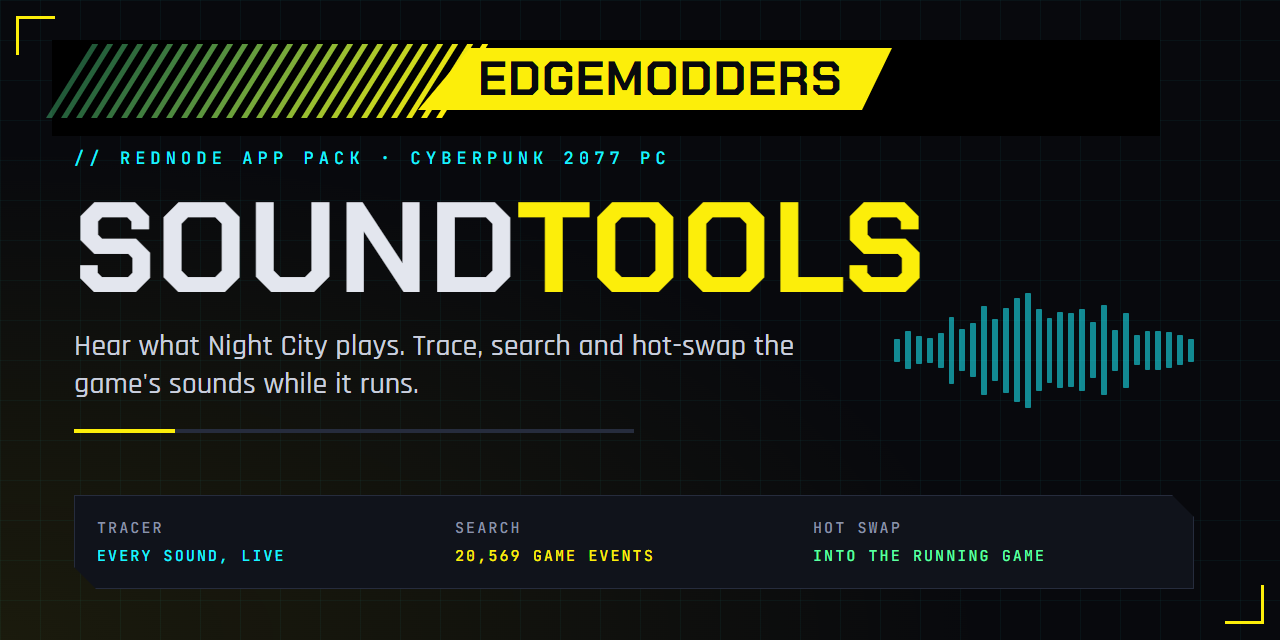
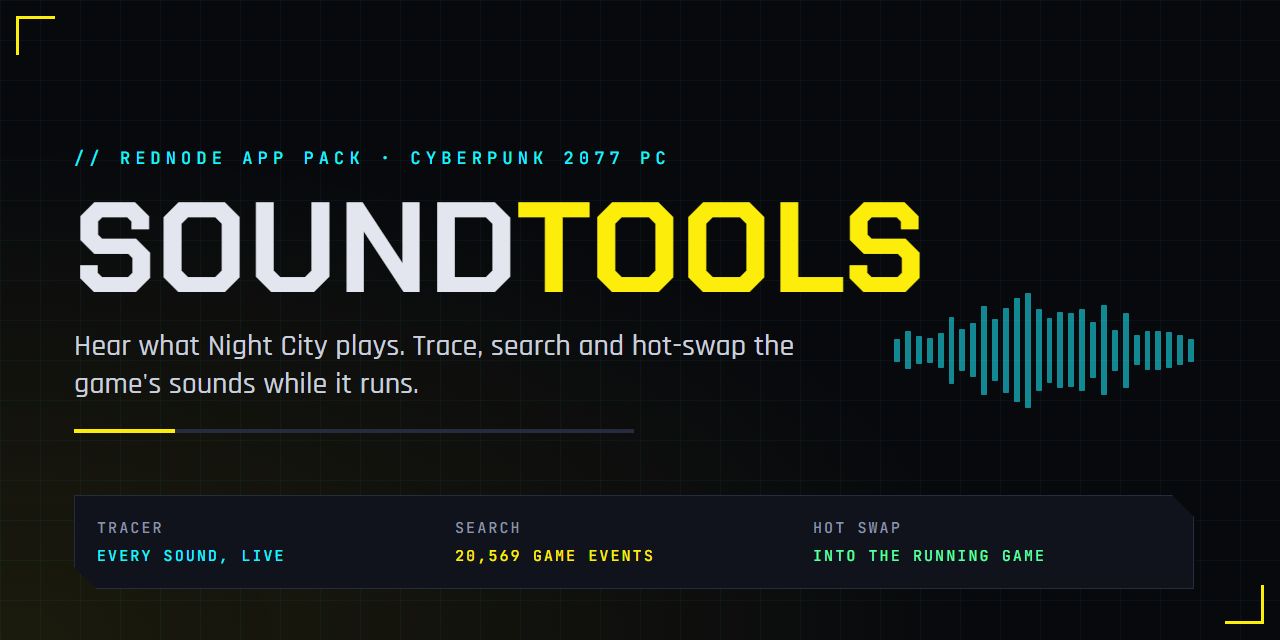
Sound Tools Nexus image: leave the EDGEmodders header to the owner

Changed region(s): [[0.0312, 0.0625, 0.7188, 0.1875]]

diff --git a/packs/sound-tools/nexus/brand/source.html b/packs/sound-tools/nexus/brand/source.html
@@ -61,7 +61,8 @@
   #social .wave { right: 80px; top: 230px; width: 300px; height: 120px; opacity: .55; gap: 5px; }
   #social .wave i { width: 7px; }
 
-  /* nexus: 1280 x 640, the social layout 55 px lower under the EDGEmodders header */
+  /* nexus: 1280 x 640, the social layout 55 px lower, leaving the top for the EDGEmodders
+     header the owner adds by hand (after REDnode's own nexus.png) */
   #nexus { width: 1280px; height: 640px; }
   #nexus .corner { width: 36px; height: 36px; left: 16px; top: 16px; }
   #nexus .corner.br { left: auto; top: auto; right: 16px; bottom: 16px; }
@@ -77,12 +78,6 @@
   #nexus .row span + span { margin-top: 8px; }
   #nexus .wave { right: 86px; top: 290px; width: 300px; height: 120px; opacity: .55; gap: 5px; }
   #nexus .wave i { width: 7px; }
-  #nexus .band { position: absolute; left: 52px; top: 40px; width: 1108px; height: 96px; background: #000; }
-  #nexus .stripes { position: absolute; left: 0; top: 44px; width: 470px; height: 74px; }
-  #nexus .stripes i { position: absolute; top: 0; width: 6px; height: 74px; transform: skewX(-32deg); transform-origin: bottom left; }
-  #nexus .tagbar { position: absolute; left: 418px; top: 48px; width: 474px; height: 62px; background: var(--yellow);
-    clip-path: polygon(52px 0, 100% 0, calc(100% - 30px) 100%, 0 100%);
-    font: 700 48px/62px var(--display); letter-spacing: .02em; color: #08090d; text-align: center; padding-left: 10px; box-sizing: border-box; }
 
   /* icon: 256 x 256 */
   #icon { width: 256px; height: 256px; clip-path: polygon(0 0, 214px 0, 256px 42px, 256px 256px, 42px 256px, 0 214px); }
@@ -99,17 +94,6 @@
 <script>
   // Which image: ?kind=banner, social, nexus or icon (or the same as the URL's hash).
   const kind = new URLSearchParams(location.search).get('kind') || location.hash.slice(1) || 'banner';
-  // The EDGEmodders header of the Nexus image, after REDnode's own nexus.png: diagonal
-  // stripes from green to yellow, then a slanted yellow tag on a black band.
-  const header = () => {
-    const stripes = [];
-    for (let i = 0; i < 27; i++) {
-      const t = i / 26;
-      const color = `rgb(${Math.round(93 + (252 - 93) * t)}, ${Math.round(255 - (255 - 238) * t)}, ${Math.round(161 - (161 - 10) * t)})`;
-      stripes.push(`<i style="left:${46 + i * 15}px;background:${color};opacity:${(0.35 + 0.65 * t).toFixed(2)}"></i>`);
-    }
-    return `<div class="band"></div><div class="stripes">${stripes.join('')}</div><div class="tagbar">EDGEMODDERS</div>`;
-  };
   const wave = (n, h, seed = 7) => {
     let x = seed;
     const bars = [];
@@ -134,7 +118,7 @@
   const art = {
     banner: `${text('// REDnode app pack · Cyberpunk 2077 PC')}<div class="panel">${rows}</div>${wave(52, 90)}`,
     social: `${text('// REDnode app pack · Cyberpunk 2077 PC')}<div class="panel">${rows}</div>${wave(28, 120, 11)}`,
-    nexus: `${header()}${text('// REDnode app pack · Cyberpunk 2077 PC')}<div class="panel">${rows}</div>${wave(28, 120, 11)}`,
+    nexus: `${text('// REDnode app pack · Cyberpunk 2077 PC')}<div class="panel">${rows}</div>${wave(28, 120, 11)}`,
     icon: `<div class="title">S<b>T</b></div>${wave(13, 34, 3)}`,
   }[kind];
   document.body.innerHTML = `<div id="${kind}" class="art"><div class="corner tl"></div><div class="corner br"></div>${art}</div>`;

diff --git a/CLAUDE.md b/CLAUDE.md
@@ -14,7 +14,7 @@ REDnode is a Node.js API for scripting Cyberpunk 2077 (PC, single-player). Read 
 - **TweakDB API**, agreed with the user on 2026-10-13 ("We need to do it"): phases T1 to T3 in [docs/tweakdb.md](docs/tweakdb.md), right after W2's in-game test and before O7. Decided: reads in the plugin through the RED4ext SDK, writes through TweakXL (`requires`), undo per package when it stops. T1 (read) passed in game on 2026-10-14 (REDnode 0.19.0: `tweakdb.*` in reflect.cpp, `tweakdb` in the package, the MCP `tweakdb` tool, `apps/tweakdb-test`), and so did 0.18.1's fixes. T2 (writes through TweakXL: Variant in the plugin's conversion, `tweakdb.set/clone/create/update` calling TweakXL's TweakDBID overloads, the host's undo journal per package) passed in game on 2026-10-14 (REDnode 0.20.0, TweakXL 1.11.4). T3 (offline reads) waits for REDbridge's `tweakdb` methods and names (its issue #3). Next in the agreed order: O11 Spaces. Names for ids are requested from REDbridge (its issue #3).
 - **Pointer lock** (EDGEbuilder's #11), agreed with the user on 2026-10-14 before the Sound API: `pointer.lock`/`pointer.unlock` in the plugin (windows.cpp, input.cpp; Esc, F10, close and hide end it; the middle button now reaches pages), the web's Pointer Lock API put in by `preload.js`, raw movement dispatched by the page's code since Chromium drops `movementX` from injected moves. Passed in game on 2026-10-15 (REDnode 0.22.0); #11 closed.
 - **O12 Console**, proposed by the user on 2026-10-15: a CET-style console for free-form JavaScript with the whole `rednode` package in scope, as a built-in tool window and its own Node mod (plan in docs/overlay.md). Distinct from O9's debugger console, which fixes one package. Not scheduled; agree its order, the key and who gets it.
-- **Sound API**, agreed with the user on 2026-10-14: REDnode's own audio engine in the plugin (miniaudio), plan in [docs/sound.md](docs/sound.md), after the TweakDB API and O11 Spaces. **Clean room:** Audioware has no license, so never read or copy its source; use only its public docs and in-game behavior. Audioware as a `requires` dependency is the fallback only if our own engine proves prohibitive. Started on 2026-10-15 (the user chose it before O12): the S1 research spike is built in REDnode 0.23.0 (miniaudio 0.11.25 via FetchContent in `native/src/overlay/audio.cpp`, bridge method `audio.tone`; sample `apps/sound-test`), passed in game on 2026-10-16 with 0.23.1 (which keeps objects a call makes, like the settings system's groups, and adds `api.$out` for native out parameters). Found: volumes under `/audio/volume` (Ints 0 to 100), `IsPausedState` useless (dilation 0 in menus instead), the scanner's slow motion not in the global dilation (open), the camera transform works, miniaudio plays beside Wwise. Results and what they mean for S1 in docs/sound.md. S1 Play, agreed with the user on 2026-10-16, is built in REDnode 0.24.0 (audio.cpp's engine with a loader thread, groups per category, menu pause, mute in background and `sound-end` events; the host's `soundCall`, manifest `sounds` and volume reading in main.js; `audio` in the package; sample `apps/sound-test` 0.2.0 with files from `tools/sounds/make-sample-sounds.py`; `native/tests/audio_test.cpp`). S1 passed in game on 2026-10-16 except pan: on the user's 8-channel HDMI output miniaudio's panner did nothing (it pans only a stereo mix). REDnode 0.24.1 opens the device itself, mixes in stereo and maps it to the front pair; passed in game the same day, and a marked retest showed the volume reads follow each slider (music 30 read as 30). Open: the scanner's slow motion (the user suspects one of their mods). Agreed with the user on 2026-10-16: a polish build first, then S2. Polish 0.24.2 is built (in-page tooltips in the UI kit, since native title tooltips never show in offscreen windows; the Mod Manager greys the space buttons of tool windows; an Open at start switch in the launcher, off showing only HUD widgets until the first F10; volume reads at each save load, every read logged) and awaits its in-game test (docs/overlay.md, "Polish 0.24.2: test"). REDnode 0.24.3 also finds REDbridge under REDcode's store id since 0.8.2, `edgemodders.redcode-cyberpunk`. REDnode 0.24.4 (#13): REDdeck is now EDGEdeck (`edgemodders.edgedeck`, repo Edgemodders/EDGEdeck, checked out at `../REDdeck`), and REDnode looks only in EDGEdeck's storage, a clean break the user chose on 2026-10-17 so any leftover REDdeck use shows up as an error; the Polish test's step 5 checks it. The Polish and EDGEdeck test partly passed in game on 2026-10-17 (0.24.4): EDGEdeck's REDbridge, tool windows and F10 passed, #13 closed; no tooltips showed (the `rn-toggle` one because the kit's walk stops at a shadow root; the title-bar ones unknown, since they show in the mock game and an offscreen repro), and Vitals and Coords showed on the boot loading screen because the game makes a player there. Results in docs/overlay.md. REDnode 0.24.5 (agreed the same day) is built and deployed for the retest: the kit's tooltip walk passes shadow roots and logs an `[rn-tip]` trace for MCP `window_console`, and `main-menu` is also on while `IsPreGame()` is true (through an `inkMenuScenario`, unverified), each change logged. 0.24.5 crashed the game at the title screen: `GetSystemRequestsHandler` returns a whandle, taken into a strong Handle, so each poll dropped a strong reference the game owned. Check an RTTI function's return type (handle or whandle) in gameapi's rtti.json before calling it from native code. 0.24.6 fixed it; in game it passed the main menu (log) and the switch's tooltip, but the title-bar icons had no tooltip: Chromium sent `pointerover` for the title bar and not for the icons, found live with `window_console`, `window_image` and the window debugger (the MCP server can be called over HTTP with the token from `~/.claude.json` when this session's connection failed). 0.24.7 starts tooltips from `pointermove` too and passed in game on 2026-10-17 (all steps): the Polish phase is done. Its test: docs/overlay.md, "Polish 0.24.5: test". Then W3, agreed with the user on 2026-10-17 with the launcher's **Tooltips** switch folded in: built in REDnode 0.25.0 (`packages/overlay/bridge-install.js`, the lookup in redbridge.js, the job and update offer in main.js, the button in the Mod Manager, `"redbridge"` in `requires`); checked end to end into an empty LOCALAPPDATA and in the mock game; passed in game on 2026-10-17 with a retest (Packaging test 0.2.1); the test used `"bridgeTest": "clean"` in `%APPDATA%\@rednode\overlay\settings.json`, removed after. On the dev PC, REDbridge 0.10.0 is now in `%LOCALAPPDATA%\REDnode\bridge` and .NET 10 per user in `%LOCALAPPDATA%\Microsoft\dotnet`. Update REDbridge is unverified. REDnode 0.25.0 released on 2026-10-17 (the gate met). The user then asked for a Welcome window (once, at the first start, teaching F10; `packages/overlay/welcome`, `settings.welcomed`), built in 0.25.1. #12: agreed on 2026-10-17 to try RED Hot Tools first and make our own if it gives trouble; plan H0 to H2 in docs/world.md, "Hot-loading archives (#12)"; RED Hot Tools 1.3.0-rc.2 installed in the dev game; H0 and the Welcome window share one test ("H0 and Welcome: test"); it passed on 2026-10-18 on the user's laptop (a scene mod missing its other parts, swapped at the main menu, was followed by a crash minutes later; a plain archive in a loaded save passed), so 0.25.1 meets the release gate. H1 (agreed on 2026-10-18 after reading RED Hot Tools' MIT source: drive it through `RedHotTools.ReloadArchives()` rather than its folder alone, with checks and a queue around it; our own swap stays the fallback) is built in REDnode 0.26.0: `reloadArchives` in main.js, `archives` in the package, the `archives` permission, the MCP tool `archives_reload`, `apps/hot-test`; checked in the mock game; passed in game on 2026-10-19 on the user's laptop (a swap holds the game thread about 50 ms; results in docs/world.md, "H1 test: results"). REDnode 0.26.1, passed in game on the laptop on 2026-10-19: a path in double quotes (Windows' Copy as path) is accepted (docs/world.md, "H1 quoted path: retest"); cursor diagnostics for the overlay's arrow that flickered on the laptop (docs/overlay.md, "Cursor flicker"; it came only with DLSS on and an NVIDIA driver update fixed it on 2026-10-19, not a REDnode bug); the Test timer 0.2.0 sends an unsent note with the next Mark. Found on 2026-10-19 (docs/world.md, "H1 limit: sound paks crash a swap"): swapping any archive with the game's sound paks (`.opuspak`, `.opusinfo`, e.g. from EDGEwave) into a running game crashes it, through REDcode's hot folder and through REDnode alike, new or replaced, with no crash dialog and no Windows error record; plain archives swap fine. Agreed the same day: H1b, built in REDnode 0.26.2 and awaiting its in-game test (docs/world.md, "H1b test"): `packages/overlay/archive-index.js` reads an archive's file table (path hashes) and `archives.reload` refuses sound paks; `faults.watch` in `native/src/overlay/faults.cpp` logs the first faults around each swap to `red4ext/logs/rednode-faults.log`; the host log of the last session is kept as `rednode-overlay.prev.log`; spike settings `"soundPakSwap": "try"` and `"swapPause": "pause"` (TimeSystem.SetPausedState) look for a real fix. Then, if the faults point somewhere fixable, a fix in REDnode; issues for REDcode (use REDnode for hot deploys, never hot-deploy sound) and EDGEwave (preview through REDnode's audio) once the spike says what to ask; the REDnode hot folder idea (tools drop archives into `red4ext/plugins/REDnode/hot`) is proposed, not agreed. Bash heredocs in this shell eat backslashes: write scripts with Write, not `python - <<EOF`. REDnode 0.26.1 released on 2026-10-19 (the user started the run on GitHub from branch `release/0.26.1`, since main was already 0.26.2; the auto-mode check blocks Claude from starting releases); release notes come from `docs/changelog.md` (`tools/release/notes.mjs`). H1b results (docs/world.md): the refusal passed; a sound pak swap crashed with nothing in the fault log; with the game paused it did not crash, but the sound stayed the base game's (the audio engine keeps its index from the start). H1c research (docs/world.md, static reading of the 2.31 exe with `dumpbin`): the opus index loader loads once and refuses again, pak readers opened at start stay on their archive; a reload in REDnode looks feasible (release the pak entries, free the index, call the loader again, while paused). Agreed with the user on 2026-10-19: H1c-1, then H1c-2 (the reload behind a spike setting) only if H1c-1 confirms the reading. H1c-1 is built in REDnode 0.26.3 and passed in game on 2026-10-19 on the laptop (docs/world.md, "H1c-1 test: results"; the patterns found 2.31's tables there too; the swap left the index unchanged, and the swapped katana sound played silent: its pak opened again from the new archive at the old index's offset; paks are opened on demand and cached, about 24, not kept for good): `native/src/overlay/opus.cpp` (`opus.state`, tables found by byte patterns, reads only, under `__try`; `native/tests/opus_test.cpp`, which with `REDNODE_GAME_EXE` set also checks the patterns against the real exe), `archives.soundState()` in the package, the state logged around a sound swap, a Sound state button in Hot swap test 0.2.0. The disassembly helpers (MSVC `dumpbin`, Python scripts) stay in the scratchpad; game code is never committed. H1c-2 is built in REDnode 0.26.4 and awaits its in-game test (docs/world.md, "H1c-2 test"): the pak table and lookups belong to Wwise's audio thread (the pak tick is a Wwise global callback at the end of each audio frame), so `opus.cpp` registers its own callback there through the game's RegisterGlobalCallback (found by pattern with its UnregisterGlobalCallback, used when the plugin stops), retires every pak entry (pak number 0xFFFE) and runs the game's index loader again, putting everything back on a refusal or fault; `"soundPakSwap": "reload"` in the host's settings turns it on (always paused). Its first run (0.26.4) crashed at the swap with the setting still "try": the crash is inside RED Hot Tools' archive load (its folder watcher took the file during the host's pause settle). H1c-2b, built in REDnode 0.26.5 (docs/world.md, "H1c-2b"): `opus.park` holds the audio thread at the end of a frame for the whole swap (3 s cap), the host copies into the hot folder only after the pause and the wait, and the fault watch records breakpoints. H1c-2's second run (still 0.26.4, "reload" set, swapped in gameplay) did not crash: the index reloaded; the katana played the base sound after the first swap and EDGEwave's after the second, the first hot-swapped sound in a running game. Cause: the game's table of loaded sounds (`0x3B49050`, acquire `0x6E3D94`, release `0x113A51C`, nothing else touches it, so no flush exists) keeps a held sound's old data until the game lets it go. H1c-3, built in REDnode 0.26.6 and awaiting its run (docs/world.md, "H1c-3 test"): diagnostics of which sounds are held and which keep old data after a reload. RED Hot Tools moves a swapped archive into `archive/pc/mod`, so it stays installed: remove it before a fresh session. REDnode 0.26.7 (asked for when the laptop's arrow vanished in the game after a save loaded, windows and hover fine, DLSS on or off): the arrow is drawn from a texture like a window (`native/src/overlay/cursor.hpp`), the shader's arrow only as a fallback; docs/overlay.md, "Cursor: drawn from a texture"; passed in game on 2026-10-19 (H1c-3's run). H1c-3 passed on the laptop on 2026-10-19 (docs/world.md, "H1c-3 test: results"): four swaps with the audio thread held, no crash; EDGEwave's katana sound plays after a swap, except right after the sound played, when it switches once the weapon is equipped again: not the held-sounds table (only one sound held, unchanged), likely Wwise's stream cache (unverified). Agreed with the user on 2026-10-19: H1d, then the optional app pack (the sound swap apps plus a **Sound Tracer** that logs the id of each game sound that plays), with the stream cache's flush as a later spike. H1d, REDnode 0.26.8, passed in game on 2026-10-19 on the laptop (docs/world.md, "H1d test: results"; two swaps, each freeing the old index, no faults; the Welcome window's F9 note checked). Next, agreed with the user on 2026-10-19: **REDnode Sound Tools**, an optional app pack (Sound Tracer, which is REDnode #14; Sound Search with a Scratch tab; Hot swap), phases SP1 to SP4 in docs/sound.md, "Sound Tools: SP1 to SP4", with a docs page and screenshots in SP4. SP1, the spike, built in REDnode 0.26.9, passed in game on 2026-10-20 on the laptop (docs/sound.md, "SP1 test: results": the hooks attach at runtime in under 1 ms, no cost seen, about 3.5 posts a second and none dropped; Wwise game objects are not entity ids; the user's notes for SP2's window, history cap and a trace log are in that page). SP2, the Sound Tracer, built in REDnode 0.26.10; the user's first look (2026-10-20) found it too narrow, Played rows silent (events were posted with no entity) and no Stop; 0.26.11 fixes them (`audio.event` posts on V by default through the plugin's `audio.play` with `"on":"player"`, `audio.stopEvent` in the plugin, `stop()` on what `audio.event` returns, Stop and Stop all in the app, a grid of `minmax(0, …)` columns) ; 0.26.12 adds the Tracer's close button (`closable` on `rn-window`: the kit shows ✕ only with it) and the host's stop of a package's posted events when it stops (`postedEvents` in main.js); 0.26.13 (agreed with the user on 2026-10-20) retires the Sound spike app and adds `ui.list` to the UI builder (package `ui.ts`, host `update` keeps a list's lines and takes `push`, `builder/builder.js` and its CSS: a list without a height fills the window, `body.fill`; sample `apps/list-mod`); SP2's retest on 0.26.13 passed on 2026-10-20 except Play on Played rows (silent: many events are stop events or need state; the game's `sfx_container.opusinfo` ends with event groups, event Wwise id to sound ids, all 73,139 sounds covered), and `ui.list` passed. SP2b, REDnode 0.26.14 (Sound Tracer 0.3.0): `audio.playGame({ event, variation? })` and `audio.eventSounds` play an event's own recordings through REDnode's engine; ▶ uses them, G posts through the game; passed in game on 2026-10-20 (docs/sound.md, "SP2b test: results"): SP2 is done and #14 closed. Next: SP3 Sound Search, starting with the move of the Tracer and Hot swap test to `packs/sound-tools/`. Later: cache the bridge's `player.position` lookups (2 to 6 ms a call on the game thread, seen with the Live log mod). The first `trace.start` costs a 372 ms hitch (the pattern search on the game thread); move it off the thread later. The mock game saves window pictures only with `--render=cpu` in the host's arguments. Decided with the user on 2026-10-20: the Sound Tools pack's source lives in this repo in `packs/sound-tools/`, outside the REDnode build (not in `overlay:package` or the player zip), with its own zip, Nexus page, version and changelog; it installs into `red4ext/plugins/REDnode/apps/` and lists REDnode as a requirement (docs/sound.md, "Sound Tools: SP1 to SP4"). The Tracer and Hot swap test move there from `packages/overlay/apps`; Sound Search starts there. Its Nexus page source (asked for by the user on 2026-10-20) is in `packs/sound-tools/nexus/`: `description.bbcode` with placeholders (REDNODE_PAGE, the REDnode version, four screenshots), brand images (banner, social, nexus after REDnode's untracked `docs/assets/brand/nexus.png`, icon) drawn from `brand/source.html` by `tools/brand/render.cjs`, one image per Electron run. The user's notes on a window that scrolled whole were about the Sound spike, a ui-builder window. SP2: `apps/sound-tracer` (a page app: a fixed window with two scrolling columns of 2,000 rows, filter, pause, Play and Copy per row, a paste box), event names added to each `sound-trace` batch by the host from REDbridge's `sound.events` (no bridge permission needed), every row written to `rednode-sound-trace.log`, and `ui.copy(text)` (the host's clipboard; a page's `navigator.clipboard` is not reliable in overlay windows). To run an Electron script from this shell, unset `ELECTRON_RUN_AS_NODE` and pass no bare number as an argument (Electron exits at once with 127 or -1). SP1's notes: the static reading found Wwise's PostEvent (`+0x1ac8e70` in 2.31) and confirmed the sound lookup (`+0x279890`, `bool (sound id, out)`); `native/src/overlay/soundtrace.cpp` hooks both through RED4ext's hooking (REDnode's first hooks, attached at the first `trace.start`); the sound paks are uncompressed in `audio_2_soundbanks.archive`, so `packages/overlay/game-sounds.js` reads a sound by id and decodes it with `opus-decoder` 0.7.12 (MIT); `audio.playGame`, `audio.event`, `audio.trace` in the package (experimental); test app `apps/sound-spike`. `soundState`'s sound fields were shifted and are renamed (`offset`, `headerSize`, `length`, `decodedBytes`). A new host file must be added to `tools/overlay/package-host.mjs`'s list, or the packaged host fails at start with no log. REDcode #11's comment is posted (2026-10-19: with REDnode running, Pack and Try hands every swap to REDnode's `archives_reload`; without it, plain archives go to RED Hot Tools' hot folder and sound archives are refused). H1d: sound archives swap with the hold and the reload by default (`"soundPakSwap"`: `"refuse"` or `"try"` only for research), refused only when the plugin does not know the game version's sound tables; the old index is freed with the game's own free (`+0x1a6f260` in 2.31; `"soundIndexFree": "keep"` to keep it); `archives.reload` answers `sound: { index, note }`. REDcode's Pack and Try still copies into RED Hot Tools' hot folder itself (REDcode #11 asks it to go through REDnode). The user wants the sound swap apps in a separate optional app pack for REDnode, plus one more app they will describe after the test (2026-10-19). The Welcome window now warns that F9, beside F10, is the game's Quick Load (asked for by the user on 2026-10-19 after hitting it in a test; also in docs/overlay-apps.md and the Nexus page source); check it with the next build. REDnode 0.26.2's changelog section is ready and branch `release/0.26.2` holds it, for the user to release from GitHub. Issues filed on 2026-10-19: REDcode #11 (don't hot-deploy sound paks; hot-deploy through REDnode) and EDGEwave #4 (sound overrides need a restart). Later: a REDbridge check before a swap, and a backup with `archives.restore()`. Then H2 `world.refresh` and S2. Next: #12 (hot-loading archives) and S2 Space. `tools/release/nexus-zip.mjs` is now `player-zip.mjs`. Order agreed with the user on 2026-10-17: the Polish and EDGEdeck test (0.24.4), then **W3 REDbridge for players** (0.25.0, docs/world.md: a Get REDbridge button in the Mod Manager fetches REDbridge and .NET 10 per user, so players need no VS Code), then #12 (hot-loading archives) and S2 Space. The Sandevistan sets the global dilation to 0.3 (V's own stays 1); the scanner's slow motion is still not found. A plugin event must not carry an `id` field: the host takes it for a request's answer.
+- **Sound API**, agreed with the user on 2026-10-14: REDnode's own audio engine in the plugin (miniaudio), plan in [docs/sound.md](docs/sound.md), after the TweakDB API and O11 Spaces. **Clean room:** Audioware has no license, so never read or copy its source; use only its public docs and in-game behavior. Audioware as a `requires` dependency is the fallback only if our own engine proves prohibitive. Started on 2026-10-15 (the user chose it before O12): the S1 research spike is built in REDnode 0.23.0 (miniaudio 0.11.25 via FetchContent in `native/src/overlay/audio.cpp`, bridge method `audio.tone`; sample `apps/sound-test`), passed in game on 2026-10-16 with 0.23.1 (which keeps objects a call makes, like the settings system's groups, and adds `api.$out` for native out parameters). Found: volumes under `/audio/volume` (Ints 0 to 100), `IsPausedState` useless (dilation 0 in menus instead), the scanner's slow motion not in the global dilation (open), the camera transform works, miniaudio plays beside Wwise. Results and what they mean for S1 in docs/sound.md. S1 Play, agreed with the user on 2026-10-16, is built in REDnode 0.24.0 (audio.cpp's engine with a loader thread, groups per category, menu pause, mute in background and `sound-end` events; the host's `soundCall`, manifest `sounds` and volume reading in main.js; `audio` in the package; sample `apps/sound-test` 0.2.0 with files from `tools/sounds/make-sample-sounds.py`; `native/tests/audio_test.cpp`). S1 passed in game on 2026-10-16 except pan: on the user's 8-channel HDMI output miniaudio's panner did nothing (it pans only a stereo mix). REDnode 0.24.1 opens the device itself, mixes in stereo and maps it to the front pair; passed in game the same day, and a marked retest showed the volume reads follow each slider (music 30 read as 30). Open: the scanner's slow motion (the user suspects one of their mods). Agreed with the user on 2026-10-16: a polish build first, then S2. Polish 0.24.2 is built (in-page tooltips in the UI kit, since native title tooltips never show in offscreen windows; the Mod Manager greys the space buttons of tool windows; an Open at start switch in the launcher, off showing only HUD widgets until the first F10; volume reads at each save load, every read logged) and awaits its in-game test (docs/overlay.md, "Polish 0.24.2: test"). REDnode 0.24.3 also finds REDbridge under REDcode's store id since 0.8.2, `edgemodders.redcode-cyberpunk`. REDnode 0.24.4 (#13): REDdeck is now EDGEdeck (`edgemodders.edgedeck`, repo Edgemodders/EDGEdeck, checked out at `../REDdeck`), and REDnode looks only in EDGEdeck's storage, a clean break the user chose on 2026-10-17 so any leftover REDdeck use shows up as an error; the Polish test's step 5 checks it. The Polish and EDGEdeck test partly passed in game on 2026-10-17 (0.24.4): EDGEdeck's REDbridge, tool windows and F10 passed, #13 closed; no tooltips showed (the `rn-toggle` one because the kit's walk stops at a shadow root; the title-bar ones unknown, since they show in the mock game and an offscreen repro), and Vitals and Coords showed on the boot loading screen because the game makes a player there. Results in docs/overlay.md. REDnode 0.24.5 (agreed the same day) is built and deployed for the retest: the kit's tooltip walk passes shadow roots and logs an `[rn-tip]` trace for MCP `window_console`, and `main-menu` is also on while `IsPreGame()` is true (through an `inkMenuScenario`, unverified), each change logged. 0.24.5 crashed the game at the title screen: `GetSystemRequestsHandler` returns a whandle, taken into a strong Handle, so each poll dropped a strong reference the game owned. Check an RTTI function's return type (handle or whandle) in gameapi's rtti.json before calling it from native code. 0.24.6 fixed it; in game it passed the main menu (log) and the switch's tooltip, but the title-bar icons had no tooltip: Chromium sent `pointerover` for the title bar and not for the icons, found live with `window_console`, `window_image` and the window debugger (the MCP server can be called over HTTP with the token from `~/.claude.json` when this session's connection failed). 0.24.7 starts tooltips from `pointermove` too and passed in game on 2026-10-17 (all steps): the Polish phase is done. Its test: docs/overlay.md, "Polish 0.24.5: test". Then W3, agreed with the user on 2026-10-17 with the launcher's **Tooltips** switch folded in: built in REDnode 0.25.0 (`packages/overlay/bridge-install.js`, the lookup in redbridge.js, the job and update offer in main.js, the button in the Mod Manager, `"redbridge"` in `requires`); checked end to end into an empty LOCALAPPDATA and in the mock game; passed in game on 2026-10-17 with a retest (Packaging test 0.2.1); the test used `"bridgeTest": "clean"` in `%APPDATA%\@rednode\overlay\settings.json`, removed after. On the dev PC, REDbridge 0.10.0 is now in `%LOCALAPPDATA%\REDnode\bridge` and .NET 10 per user in `%LOCALAPPDATA%\Microsoft\dotnet`. Update REDbridge is unverified. REDnode 0.25.0 released on 2026-10-17 (the gate met). The user then asked for a Welcome window (once, at the first start, teaching F10; `packages/overlay/welcome`, `settings.welcomed`), built in 0.25.1. #12: agreed on 2026-10-17 to try RED Hot Tools first and make our own if it gives trouble; plan H0 to H2 in docs/world.md, "Hot-loading archives (#12)"; RED Hot Tools 1.3.0-rc.2 installed in the dev game; H0 and the Welcome window share one test ("H0 and Welcome: test"); it passed on 2026-10-18 on the user's laptop (a scene mod missing its other parts, swapped at the main menu, was followed by a crash minutes later; a plain archive in a loaded save passed), so 0.25.1 meets the release gate. H1 (agreed on 2026-10-18 after reading RED Hot Tools' MIT source: drive it through `RedHotTools.ReloadArchives()` rather than its folder alone, with checks and a queue around it; our own swap stays the fallback) is built in REDnode 0.26.0: `reloadArchives` in main.js, `archives` in the package, the `archives` permission, the MCP tool `archives_reload`, `apps/hot-test`; checked in the mock game; passed in game on 2026-10-19 on the user's laptop (a swap holds the game thread about 50 ms; results in docs/world.md, "H1 test: results"). REDnode 0.26.1, passed in game on the laptop on 2026-10-19: a path in double quotes (Windows' Copy as path) is accepted (docs/world.md, "H1 quoted path: retest"); cursor diagnostics for the overlay's arrow that flickered on the laptop (docs/overlay.md, "Cursor flicker"; it came only with DLSS on and an NVIDIA driver update fixed it on 2026-10-19, not a REDnode bug); the Test timer 0.2.0 sends an unsent note with the next Mark. Found on 2026-10-19 (docs/world.md, "H1 limit: sound paks crash a swap"): swapping any archive with the game's sound paks (`.opuspak`, `.opusinfo`, e.g. from EDGEwave) into a running game crashes it, through REDcode's hot folder and through REDnode alike, new or replaced, with no crash dialog and no Windows error record; plain archives swap fine. Agreed the same day: H1b, built in REDnode 0.26.2 and awaiting its in-game test (docs/world.md, "H1b test"): `packages/overlay/archive-index.js` reads an archive's file table (path hashes) and `archives.reload` refuses sound paks; `faults.watch` in `native/src/overlay/faults.cpp` logs the first faults around each swap to `red4ext/logs/rednode-faults.log`; the host log of the last session is kept as `rednode-overlay.prev.log`; spike settings `"soundPakSwap": "try"` and `"swapPause": "pause"` (TimeSystem.SetPausedState) look for a real fix. Then, if the faults point somewhere fixable, a fix in REDnode; issues for REDcode (use REDnode for hot deploys, never hot-deploy sound) and EDGEwave (preview through REDnode's audio) once the spike says what to ask; the REDnode hot folder idea (tools drop archives into `red4ext/plugins/REDnode/hot`) is proposed, not agreed. Bash heredocs in this shell eat backslashes: write scripts with Write, not `python - <<EOF`. REDnode 0.26.1 released on 2026-10-19 (the user started the run on GitHub from branch `release/0.26.1`, since main was already 0.26.2; the auto-mode check blocks Claude from starting releases); release notes come from `docs/changelog.md` (`tools/release/notes.mjs`). H1b results (docs/world.md): the refusal passed; a sound pak swap crashed with nothing in the fault log; with the game paused it did not crash, but the sound stayed the base game's (the audio engine keeps its index from the start). H1c research (docs/world.md, static reading of the 2.31 exe with `dumpbin`): the opus index loader loads once and refuses again, pak readers opened at start stay on their archive; a reload in REDnode looks feasible (release the pak entries, free the index, call the loader again, while paused). Agreed with the user on 2026-10-19: H1c-1, then H1c-2 (the reload behind a spike setting) only if H1c-1 confirms the reading. H1c-1 is built in REDnode 0.26.3 and passed in game on 2026-10-19 on the laptop (docs/world.md, "H1c-1 test: results"; the patterns found 2.31's tables there too; the swap left the index unchanged, and the swapped katana sound played silent: its pak opened again from the new archive at the old index's offset; paks are opened on demand and cached, about 24, not kept for good): `native/src/overlay/opus.cpp` (`opus.state`, tables found by byte patterns, reads only, under `__try`; `native/tests/opus_test.cpp`, which with `REDNODE_GAME_EXE` set also checks the patterns against the real exe), `archives.soundState()` in the package, the state logged around a sound swap, a Sound state button in Hot swap test 0.2.0. The disassembly helpers (MSVC `dumpbin`, Python scripts) stay in the scratchpad; game code is never committed. H1c-2 is built in REDnode 0.26.4 and awaits its in-game test (docs/world.md, "H1c-2 test"): the pak table and lookups belong to Wwise's audio thread (the pak tick is a Wwise global callback at the end of each audio frame), so `opus.cpp` registers its own callback there through the game's RegisterGlobalCallback (found by pattern with its UnregisterGlobalCallback, used when the plugin stops), retires every pak entry (pak number 0xFFFE) and runs the game's index loader again, putting everything back on a refusal or fault; `"soundPakSwap": "reload"` in the host's settings turns it on (always paused). Its first run (0.26.4) crashed at the swap with the setting still "try": the crash is inside RED Hot Tools' archive load (its folder watcher took the file during the host's pause settle). H1c-2b, built in REDnode 0.26.5 (docs/world.md, "H1c-2b"): `opus.park` holds the audio thread at the end of a frame for the whole swap (3 s cap), the host copies into the hot folder only after the pause and the wait, and the fault watch records breakpoints. H1c-2's second run (still 0.26.4, "reload" set, swapped in gameplay) did not crash: the index reloaded; the katana played the base sound after the first swap and EDGEwave's after the second, the first hot-swapped sound in a running game. Cause: the game's table of loaded sounds (`0x3B49050`, acquire `0x6E3D94`, release `0x113A51C`, nothing else touches it, so no flush exists) keeps a held sound's old data until the game lets it go. H1c-3, built in REDnode 0.26.6 and awaiting its run (docs/world.md, "H1c-3 test"): diagnostics of which sounds are held and which keep old data after a reload. RED Hot Tools moves a swapped archive into `archive/pc/mod`, so it stays installed: remove it before a fresh session. REDnode 0.26.7 (asked for when the laptop's arrow vanished in the game after a save loaded, windows and hover fine, DLSS on or off): the arrow is drawn from a texture like a window (`native/src/overlay/cursor.hpp`), the shader's arrow only as a fallback; docs/overlay.md, "Cursor: drawn from a texture"; passed in game on 2026-10-19 (H1c-3's run). H1c-3 passed on the laptop on 2026-10-19 (docs/world.md, "H1c-3 test: results"): four swaps with the audio thread held, no crash; EDGEwave's katana sound plays after a swap, except right after the sound played, when it switches once the weapon is equipped again: not the held-sounds table (only one sound held, unchanged), likely Wwise's stream cache (unverified). Agreed with the user on 2026-10-19: H1d, then the optional app pack (the sound swap apps plus a **Sound Tracer** that logs the id of each game sound that plays), with the stream cache's flush as a later spike. H1d, REDnode 0.26.8, passed in game on 2026-10-19 on the laptop (docs/world.md, "H1d test: results"; two swaps, each freeing the old index, no faults; the Welcome window's F9 note checked). Next, agreed with the user on 2026-10-19: **REDnode Sound Tools**, an optional app pack (Sound Tracer, which is REDnode #14; Sound Search with a Scratch tab; Hot swap), phases SP1 to SP4 in docs/sound.md, "Sound Tools: SP1 to SP4", with a docs page and screenshots in SP4. SP1, the spike, built in REDnode 0.26.9, passed in game on 2026-10-20 on the laptop (docs/sound.md, "SP1 test: results": the hooks attach at runtime in under 1 ms, no cost seen, about 3.5 posts a second and none dropped; Wwise game objects are not entity ids; the user's notes for SP2's window, history cap and a trace log are in that page). SP2, the Sound Tracer, built in REDnode 0.26.10; the user's first look (2026-10-20) found it too narrow, Played rows silent (events were posted with no entity) and no Stop; 0.26.11 fixes them (`audio.event` posts on V by default through the plugin's `audio.play` with `"on":"player"`, `audio.stopEvent` in the plugin, `stop()` on what `audio.event` returns, Stop and Stop all in the app, a grid of `minmax(0, …)` columns) ; 0.26.12 adds the Tracer's close button (`closable` on `rn-window`: the kit shows ✕ only with it) and the host's stop of a package's posted events when it stops (`postedEvents` in main.js); 0.26.13 (agreed with the user on 2026-10-20) retires the Sound spike app and adds `ui.list` to the UI builder (package `ui.ts`, host `update` keeps a list's lines and takes `push`, `builder/builder.js` and its CSS: a list without a height fills the window, `body.fill`; sample `apps/list-mod`); SP2's retest on 0.26.13 passed on 2026-10-20 except Play on Played rows (silent: many events are stop events or need state; the game's `sfx_container.opusinfo` ends with event groups, event Wwise id to sound ids, all 73,139 sounds covered), and `ui.list` passed. SP2b, REDnode 0.26.14 (Sound Tracer 0.3.0): `audio.playGame({ event, variation? })` and `audio.eventSounds` play an event's own recordings through REDnode's engine; ▶ uses them, G posts through the game; passed in game on 2026-10-20 (docs/sound.md, "SP2b test: results"): SP2 is done and #14 closed. Next: SP3 Sound Search, starting with the move of the Tracer and Hot swap test to `packs/sound-tools/`. Later: cache the bridge's `player.position` lookups (2 to 6 ms a call on the game thread, seen with the Live log mod). The first `trace.start` costs a 372 ms hitch (the pattern search on the game thread); move it off the thread later. The mock game saves window pictures only with `--render=cpu` in the host's arguments. Decided with the user on 2026-10-20: the Sound Tools pack's source lives in this repo in `packs/sound-tools/`, outside the REDnode build (not in `overlay:package` or the player zip), with its own zip, Nexus page, version and changelog; it installs into `red4ext/plugins/REDnode/apps/` and lists REDnode as a requirement (docs/sound.md, "Sound Tools: SP1 to SP4"). The Tracer and Hot swap test move there from `packages/overlay/apps`; Sound Search starts there. Its Nexus page source (asked for by the user on 2026-10-20) is in `packs/sound-tools/nexus/`: `description.bbcode` with placeholders (REDNODE_PAGE, the REDnode version, four screenshots), brand images (banner, social, icon, and nexus: the social layout 55 px lower with room for the EDGEmodders header the owner adds by hand, as on REDnode's untracked `docs/assets/brand/nexus.png`) drawn from `brand/source.html` by `tools/brand/render.cjs`, one image per Electron run. The user's notes on a window that scrolled whole were about the Sound spike, a ui-builder window. SP2: `apps/sound-tracer` (a page app: a fixed window with two scrolling columns of 2,000 rows, filter, pause, Play and Copy per row, a paste box), event names added to each `sound-trace` batch by the host from REDbridge's `sound.events` (no bridge permission needed), every row written to `rednode-sound-trace.log`, and `ui.copy(text)` (the host's clipboard; a page's `navigator.clipboard` is not reliable in overlay windows). To run an Electron script from this shell, unset `ELECTRON_RUN_AS_NODE` and pass no bare number as an argument (Electron exits at once with 127 or -1). SP1's notes: the static reading found Wwise's PostEvent (`+0x1ac8e70` in 2.31) and confirmed the sound lookup (`+0x279890`, `bool (sound id, out)`); `native/src/overlay/soundtrace.cpp` hooks both through RED4ext's hooking (REDnode's first hooks, attached at the first `trace.start`); the sound paks are uncompressed in `audio_2_soundbanks.archive`, so `packages/overlay/game-sounds.js` reads a sound by id and decodes it with `opus-decoder` 0.7.12 (MIT); `audio.playGame`, `audio.event`, `audio.trace` in the package (experimental); test app `apps/sound-spike`. `soundState`'s sound fields were shifted and are renamed (`offset`, `headerSize`, `length`, `decodedBytes`). A new host file must be added to `tools/overlay/package-host.mjs`'s list, or the packaged host fails at start with no log. REDcode #11's comment is posted (2026-10-19: with REDnode running, Pack and Try hands every swap to REDnode's `archives_reload`; without it, plain archives go to RED Hot Tools' hot folder and sound archives are refused). H1d: sound archives swap with the hold and the reload by default (`"soundPakSwap"`: `"refuse"` or `"try"` only for research), refused only when the plugin does not know the game version's sound tables; the old index is freed with the game's own free (`+0x1a6f260` in 2.31; `"soundIndexFree": "keep"` to keep it); `archives.reload` answers `sound: { index, note }`. REDcode's Pack and Try still copies into RED Hot Tools' hot folder itself (REDcode #11 asks it to go through REDnode). The user wants the sound swap apps in a separate optional app pack for REDnode, plus one more app they will describe after the test (2026-10-19). The Welcome window now warns that F9, beside F10, is the game's Quick Load (asked for by the user on 2026-10-19 after hitting it in a test; also in docs/overlay-apps.md and the Nexus page source); check it with the next build. REDnode 0.26.2's changelog section is ready and branch `release/0.26.2` holds it, for the user to release from GitHub. Issues filed on 2026-10-19: REDcode #11 (don't hot-deploy sound paks; hot-deploy through REDnode) and EDGEwave #4 (sound overrides need a restart). Later: a REDbridge check before a swap, and a backup with `archives.restore()`. Then H2 `world.refresh` and S2. Next: #12 (hot-loading archives) and S2 Space. `tools/release/nexus-zip.mjs` is now `player-zip.mjs`. Order agreed with the user on 2026-10-17: the Polish and EDGEdeck test (0.24.4), then **W3 REDbridge for players** (0.25.0, docs/world.md: a Get REDbridge button in the Mod Manager fetches REDbridge and .NET 10 per user, so players need no VS Code), then #12 (hot-loading archives) and S2 Space. The Sandevistan sets the global dilation to 0.3 (V's own stays 1); the scanner's slow motion is still not found. A plugin event must not carry an `id` field: the host takes it for a request's answer.
 - **Native game UI (ink)**, proposed by the user on 2026-10-18: an `ink` API and tags over the game's ink widgets, drawn by the engine (the `ui` builder and overlay apps draw in Chromium, not in the game's UI), plus screens: open and switch the game's full-screen menus and build new ones (one generic `rednode_screen` menu entry for every package). Design: docs/design.html, section 06 ("Native game UI"): an ink driver in the plugin (kept trees, batched changes, events through a listener script class, rebuild on load) and the API in Tier 2; Tier 1 not needed until I6, frame drawing (a Tier 1 `draw` each frame for animations and cosmetics on screens; the user said on 2026-10-18 it will be needed, in a later phase). Phases I1 to I6. Not scheduled; agree its order.
 - **Localization**, raised by the user on 2026-10-18 with the ink design: plan in docs/localization.md (L1 language and API, L2 REDnode's own text, L3 ink). Words follow the game's language, formats follow Windows (`app.getPreferredSystemLanguages()`, `app.getSystemLocale()`; not `app.getLocale()`, since the packaged host keeps only `en-US.pak`); `Intl` has full ICU in the host. Not scheduled; agree its order.
 - **Other candidates** for after the overlay: the Tier 2 transport, and telling a real session start from the main-menu attach (see the P1 results page). Agree with the user before starting.

diff --git a/packs/sound-tools/nexus/README.md b/packs/sound-tools/nexus/README.md
@@ -7,7 +7,7 @@ The source of the Sound Tools pack's own Nexus Mods page, beside REDnode's (`nex
 | `description.bbcode` | The page's description, in Nexus's BBCode. Paste the whole file into the description field (the editor's source mode, or switch to BBCode) |
 | `brand/banner.png` | 2560 x 640, at the top of the description (loaded from GitHub) |
 | `brand/social.png` | 1280 x 640, for links shared on social sites |
-| `brand/nexus.png` | 1280 x 640, the page's primary image: the social image under the EDGEmodders header, after REDnode's own Nexus image |
+| `brand/nexus.png` | 1280 x 640, the page's primary image: the social layout moved down 55 px, with the top left empty for the EDGEmodders header, which the owner adds by hand (as on REDnode's own Nexus image). Drawing it again clears the header: add it again after |
 | `brand/icon.png` | 256 x 256 |
 | `brand/source.html` | What the images are drawn from (below) |
 | `README.md` | This page |
